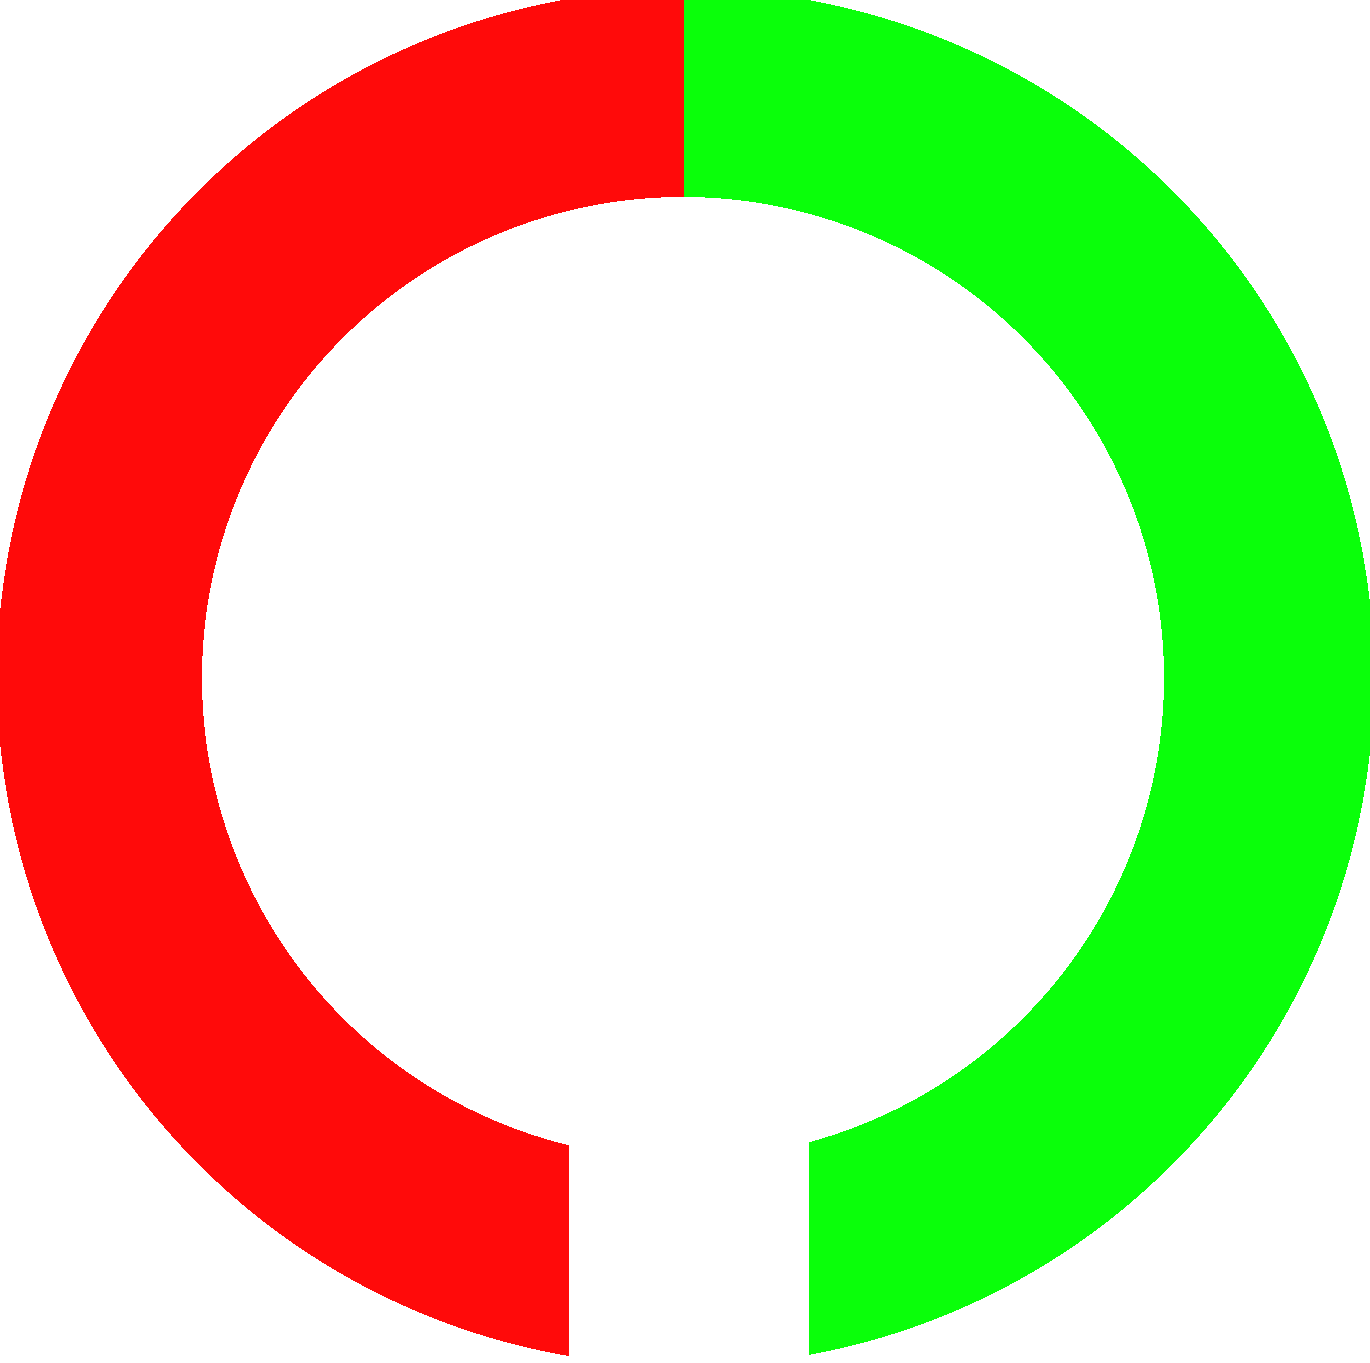
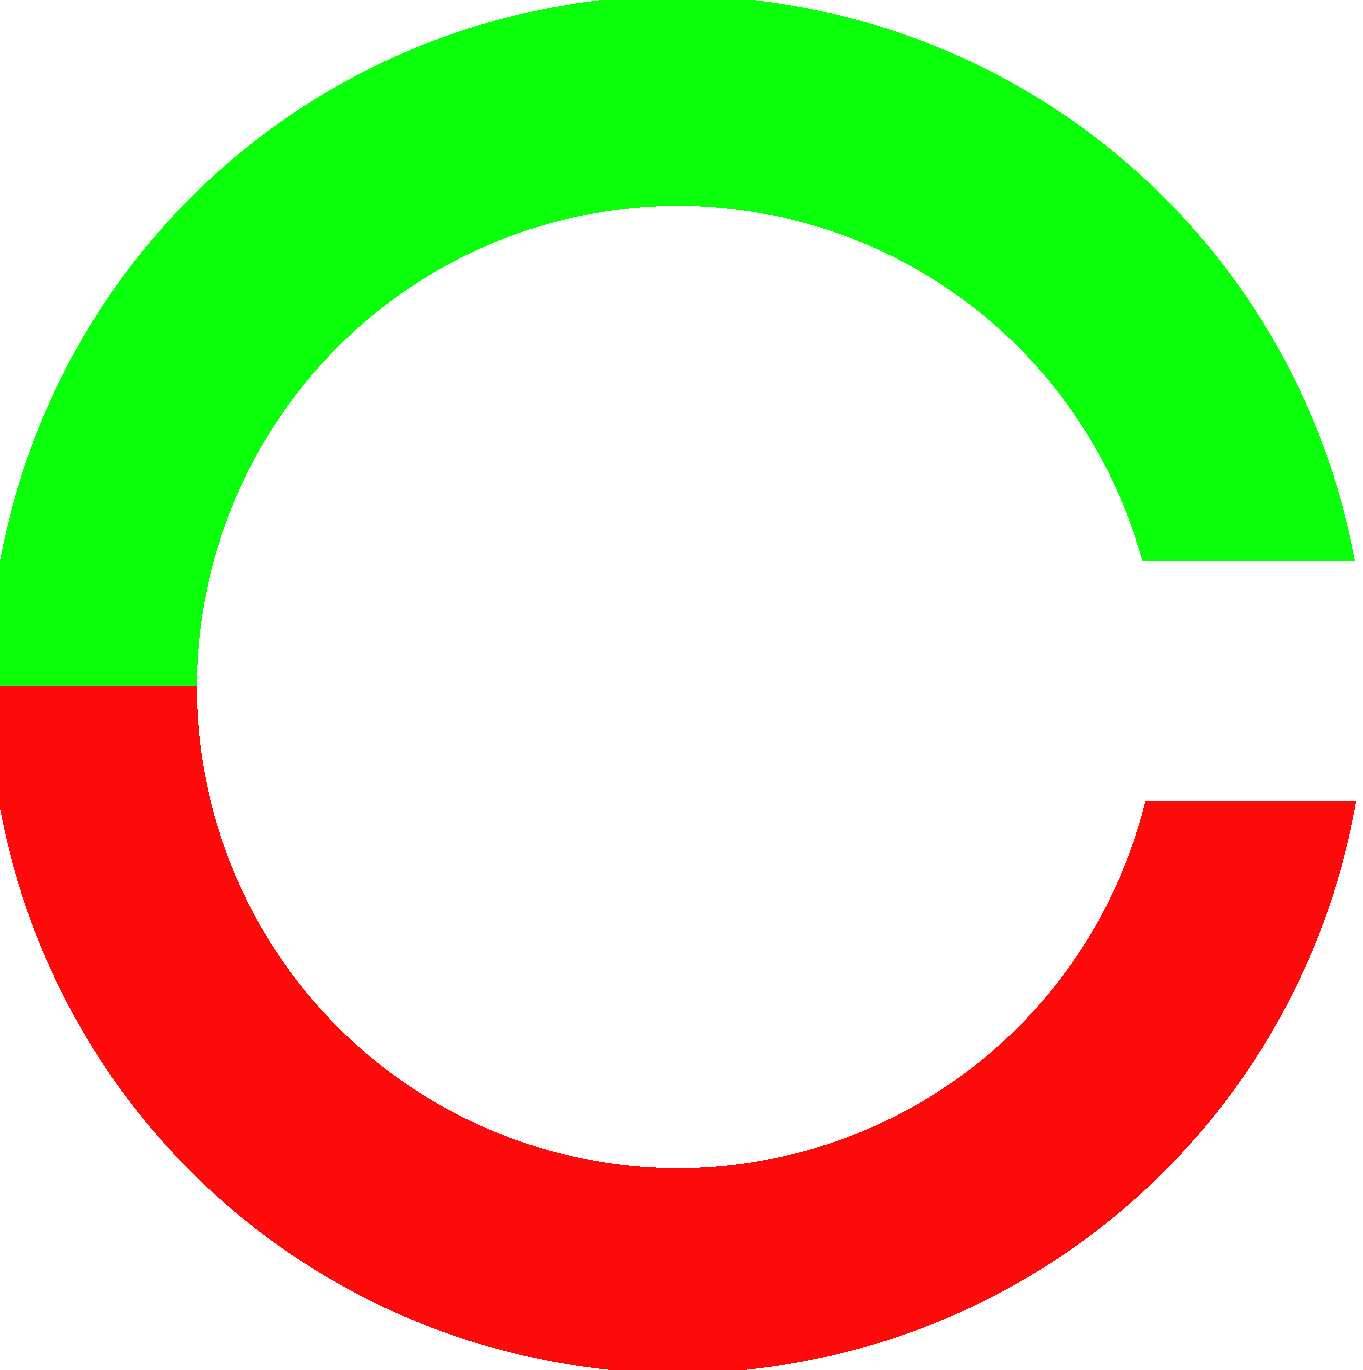
added a circular slider, that selects a gesture

diff --git a/lib/screens/cheatsheet/cheatsheet.dart b/lib/screens/cheatsheet/cheatsheet.dart
@@ -1,14 +1,105 @@
 import 'package:flutter/material.dart';
+import 'dart:math';
 import 'package:ssp_extreme/shared/theme/styled_text.dart';
+import 'package:ssp_extreme/shared/theme/theme.dart';
 
-class CheatsheetScreen extends StatelessWidget {
+class CheatsheetScreen extends StatefulWidget {
   const CheatsheetScreen({super.key});
+
+  @override
+  State<CheatsheetScreen> createState() => _CheatsheetScreenState();
+}
+
+class _CheatsheetScreenState extends State<CheatsheetScreen> {
+  //fields
+  double angle = pi / 2; //rotaion for circular Slider
+  int index = 0;
+  final double height = 350;
+
+  void rotation(DragUpdateDetails position) {
+    //calculating the angle of the slider using the fingercoordinates and
+    //compareing them to the middle of the widget, 16 is half padding + margin
+    double dy = position.localPosition.dy - (height / 2 + 16);
+    double dx = position.localPosition.dx - (height / 2 + 16);
+
+    if (dx > 0) {
+      setState(() {
+        //arctan sets the angle, when x is poitive
+        angle = atan(dy / dx);
+      });
+    } else {
+      //prevents a behavior, when x gets negative the function resets. to
+      //fix this by adding pi (180°) to the outcome.
+      setState(() {
+        angle = atan(dy / dx) + pi;
+      });
+    }
+  }
+
+  void lockIn() {
+    //after selection ended:
+    // converts the given slider angle to the matching index of the global gesture
+    // list and returns a on the index picture matching centered slider.
+    angle = (angle - pi / 2) / (2 * pi / 15);
+
+    setState(() {
+      index = angle.round();
+      angle = index * (2 * pi / 15) + (pi / 2);
+    });
+    if (index < 0) {
+      //converts a negative index into a positve
+      index += 15;
+    }
+  }
 
   @override
   Widget build(BuildContext context) {
     return Scaffold(
-      appBar: AppBar(title: StyledTitle('Cheatsheet')),
-      body: Center(child: Image.asset('assets/img/cheatsheet.png')),
+      appBar: AppBar(title: StyledTitle('Gamerules')),
+      body: SingleChildScrollView(
+        child: Column(
+          children: [
+            GestureDetector(
+              onPanUpdate: (details) {
+                rotation(details);
+              },
+              onPanEnd: (details) {
+                lockIn();
+              },
+              child: Container(
+                //Container for circular Slider
+                color: AppColor.primaryAccentTwo,
+                margin: const EdgeInsetsGeometry.all(14),
+                padding: const EdgeInsetsGeometry.all(14),
+                child: Stack(
+                  children: [
+                    SizedBox(
+                      //the Slider
+                      height: height,
+                      child: Transform.rotate(
+                        angle: angle,
+                        child: Image.asset('assets/img/gestures_circle.png'),
+                      ),
+                    ),
+
+                    Container(
+                      //Picutre with options to choose from
+                      height: height,
+                      decoration: BoxDecoration(
+                        image: DecorationImage(
+                          image: AssetImage(
+                            'assets/img/gestures_with_names.png',
+                          ),
+                        ),
+                      ),
+                    ),
+                  ],
+                ),
+              ),
+            ),
+          ],
+        ),
+      ),
     );
   }
 }
